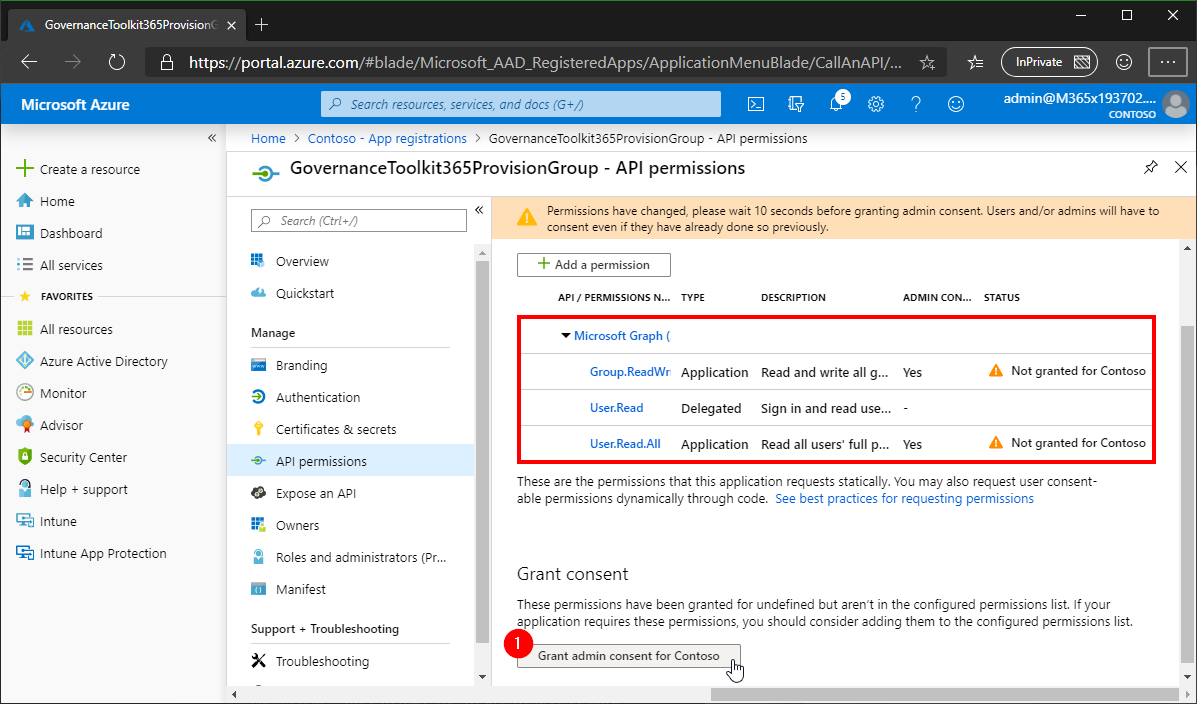
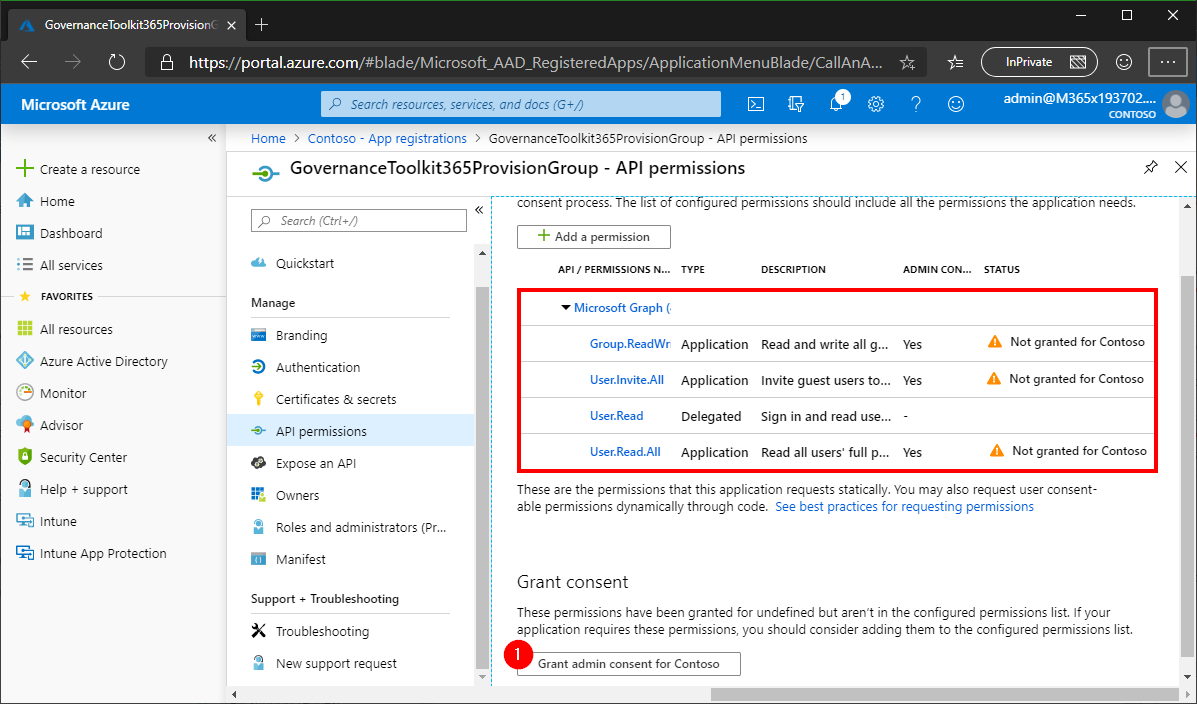
small updates

diff --git a/API-invite-guest.md b/API-invite-guest.md
@@ -1,0 +1,68 @@
+# [Invite guests with the API](#invite-guest-asp)
+
+Once you have [created the app](./API-create-app.md) in your Microsoft 365 tenant, we can use that app to access the GT365 API.
+
+The concept is the same as working with the GT365 API to provision a new group. You need to get a token and send that to the GT365 API. Here, we assume, you already have a valid token. This article here is using [Postman](https://www.getpostman.com/downloads/).
+
+Follow the steps to invite a guest user to your Microsoft 365 tenant.
+
+- Get a new token as described at [API-Provisioning](./API-provisioning.md).
+- In Postman, create a new request. This is a **POST** request against the GT365 endpoint https://gt365api.atwork-it.com/api/InviteGuest. Copy the current **access_token** value in the Authorization Token field as shown here.
+[![link](./images/api-invite-1.png)](./images/api-invite-1.png "Click to enlarge")
+- Now, it´s time to add the payload for the API call. Submit a body in the following form, as shown in the screenshot. Click on "Body", add the JSON data (see below) and click "Send". You will see the result in the panel below.
+
+**Invite a user to your tenant**
+Use this sample payload in the Body and adapt it as needed.
+
+~~~~json
+{
+  "invitedUserEmailAddress": "{some.email@company.org}",
+  "inviteRedirectUrl": "https://google.at",  
+  "sendInvitationMessage": true
+}
+~~~~
+
+[![link](./images/api-invite-2.png)](./images/api-invite-2.png "Click to enlarge")
+
+
+**API results**
+
+- The request usually runs for some seconds, depending on the availability of the GT365 API. You will receive a HTTP status message after the operation has been completed.
+- You get back a HTTP status code and a JSON message informing about the new group or any error message.
+
+In case the invitation was created successfully, you get back a result with a **HTTP status code 201 Created**. The result delivers an *id*, the *invitedUserEmailAddress*, an *inviteRedeemUrl*, a *status*, and a *sendInvitationMessage* as here.
+
+~~~~json
+{
+    "id": "3771b160-f31d-4d46-a2da-f785b6a8c1ed",
+    "invitedUserEmailAddress": "some.name@somedomain.org",
+    "inviteRedeemUrl": "https://invitations.microsoft.com/redeem/?tenant={TenantID}&user={UserID}]&ticket=%2bQDw9b5kvcymQ9oZD%2f7YZXMkqBRPrDW3qxwZYu75%2bPI%3d&ver=2.0",
+    "status": "PendingAcceptance",
+    "sendInvitationMessage": true
+}
+~~~~
+
+- Check the invitation with Microsoft Graph, the Azure Portal or another mechanism. In this sample, the users are filtered the result looks as here. 
+[![link](./images/api-invite-3.png)](./images/api-invite-3.png "Click to enlarge")
+- You can check the invitation in the Azure Portal or resend the invitation if needed.
+[![link](./images/api-invite-4.png)](./images/api-invite-4.png "Click to enlarge")
+- The invited user has to accept the invitation by clicking a link. The URL looks similar as here:
+https://invitations.microsoft.com/redeem/?tenant={TenantID}&user={UserID}&ticket={TicketID}&ver=2.0
+[![link](./images/api-invite-5.png)](./images/api-invite-5.png "Click to enlarge")
+- The use gets redirected to https://login.live.com/ and needs to enter a new password and to follow the steps (depending on the organization´s security configuration).
+[![link](./images/api-invite-6.png)](./images/api-invite-6.png "Click to enlarge")
+- After a successful sign-in, the user is added as a guest user in the Microsoft 365 tenant.
+
+
+## Error messages
+
+If an error occurs during the operation, you get back a HTTP 500 internal error status.
+
+In such cases, correct the data and retry.
+
+## Use from any client
+
+This sample shows the process how to use the GT365 API. You can test the API with Postman and then develop the API request from a Mirosoft Flow or Azure Logic App or from your own applications.
+
+**Quick navigation**
+[ReadMe](./readme.md) &middot; [API](-/API.md) &middot; [API-Create-App](./API-create-app.md) &middot; [API-Provisioning](./API-provisioning.md) &middot; [Newsletter](./newsletter.md) &middot; [Power-BI](./power-bi.md) &middot; [GT365](https://governancetoolkit365.com/)

diff --git a/API-create-app.md b/API-create-app.md
@@ -2,6 +2,8 @@
 
 Follow the steps below once to create an app that can be used from the GT365 API.
 
+*Note:* Any IDs and secrets shown on these pages are just for the documentation of this demo, they were removed and are not valid. Follow the steps to get your own keys.
+
 - Login to the Azure Portal as Global Admin and navigate to [Active Directory / App registrations](https://portal.azure.com/#blade/Microsoft_AAD_IAM/ActiveDirectoryMenuBlade/RegisteredApps). 
 - Click on "New registration"
 [![link](./images/app-registration-1.png)](./images/app-registration-1.png "Click to enlarge")
@@ -13,7 +15,7 @@ Follow the steps below once to create an app that can be used from the GT365 API
 [![link](./images/app-registration-4.png)](./images/app-registration-4.png "Click to enlarge")
 - Copy the generated value (the secret) and save it in a safe place. You need that later.
 [![link](./images/app-registration-5.png)](./images/app-registration-5.png "Click to enlarge")
-If the secret gets compromised, delete the old and generate a new secret.
+If the secret gets compromised, delete the old and generate a new secret. 
 - Click on "API permissions" and on the "Add a permission" button.
 [![link](./images/app-registration-6.png)](./images/app-registration-6.png "Click to enlarge")
 - Click on the "Microsoft Graph" provider.
@@ -22,7 +24,7 @@ If the secret gets compromised, delete the old and generate a new secret.
 [![link](./images/app-registration-8.png)](./images/app-registration-8.png "Click to enlarge")
 - Search for "group". In the group section, find the "Group.ReadWrite.All" permission and select it. This permission is required to read and to create new groups and teams.
 [![link](./images/app-registration-9.png)](./images/app-registration-9.png "Click to enlarge")
-- Search for "user". In the user section, find the "User.Read.All" permission and select it. This is required to add owners to a new group. Then, click "Add permissions" to save the settings.
+- Search for "user". In the user section, find the "User.Read.All" permission and the "User.Invite.All" permission and select both. This is required to add owners to a new group and to invite guest users. Then, click "Add permissions" to save the settings.
 [![link](./images/app-registration-10.png)](./images/app-registration-10.png "Click to enlarge")
 - Check the permissions, they should set as in the following screenshot. Wait for up to 10 seconds, then click "Grant admin consent for [your organization]". This allows this application to execute tasks with the defined permissions.
 [![link](./images/app-registration-11.png)](./images/app-registration-11.png "Click to enlarge")

diff --git a/API-provisioning.md b/API-provisioning.md
@@ -1,6 +1,6 @@
 # [Use the API](#use-the-api)
 
-One you have [created the app](./API-create-app.md) in your Microsoft 365 tenant, we can use that app to access the GT365 API.
+Once you have [created the app](./API-create-app.md) in your Microsoft 365 tenant, we can use that app to access the GT365 API.
 
 The security concept is to get a token for the own tenant first. Then send that token to the GT365 API, so that it is allowed to provision a new Office 365 group. The token usually is valid only for about 60 minutes and expires then.
 
